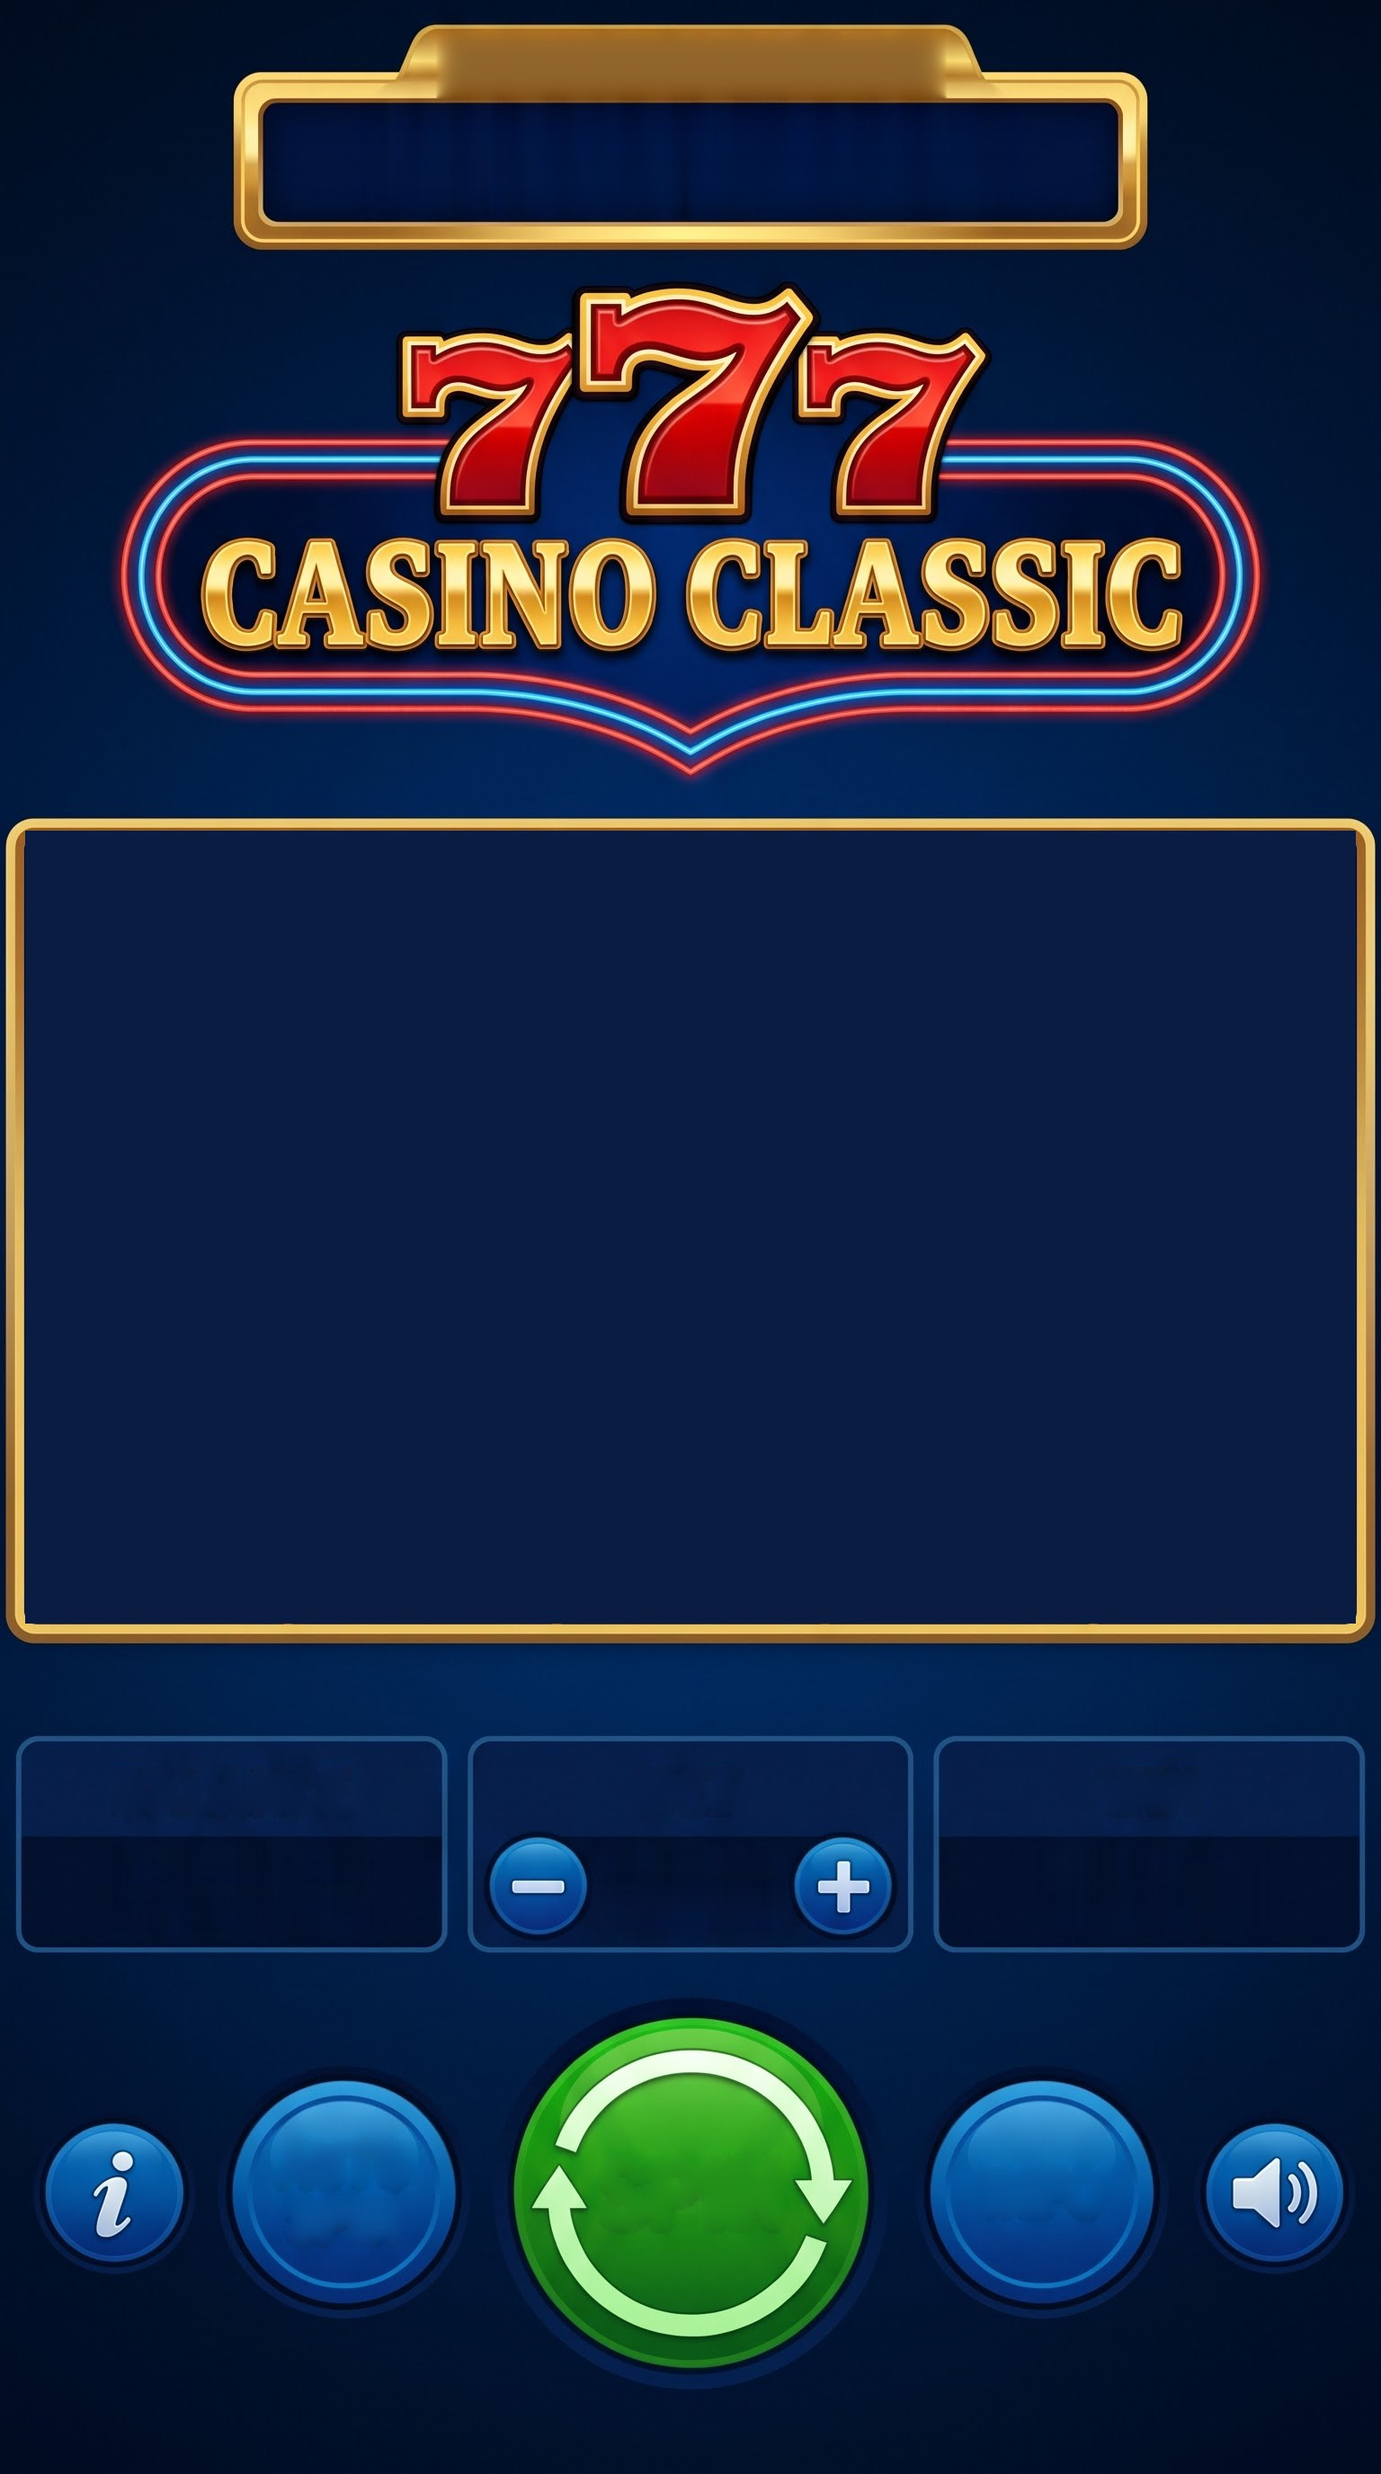
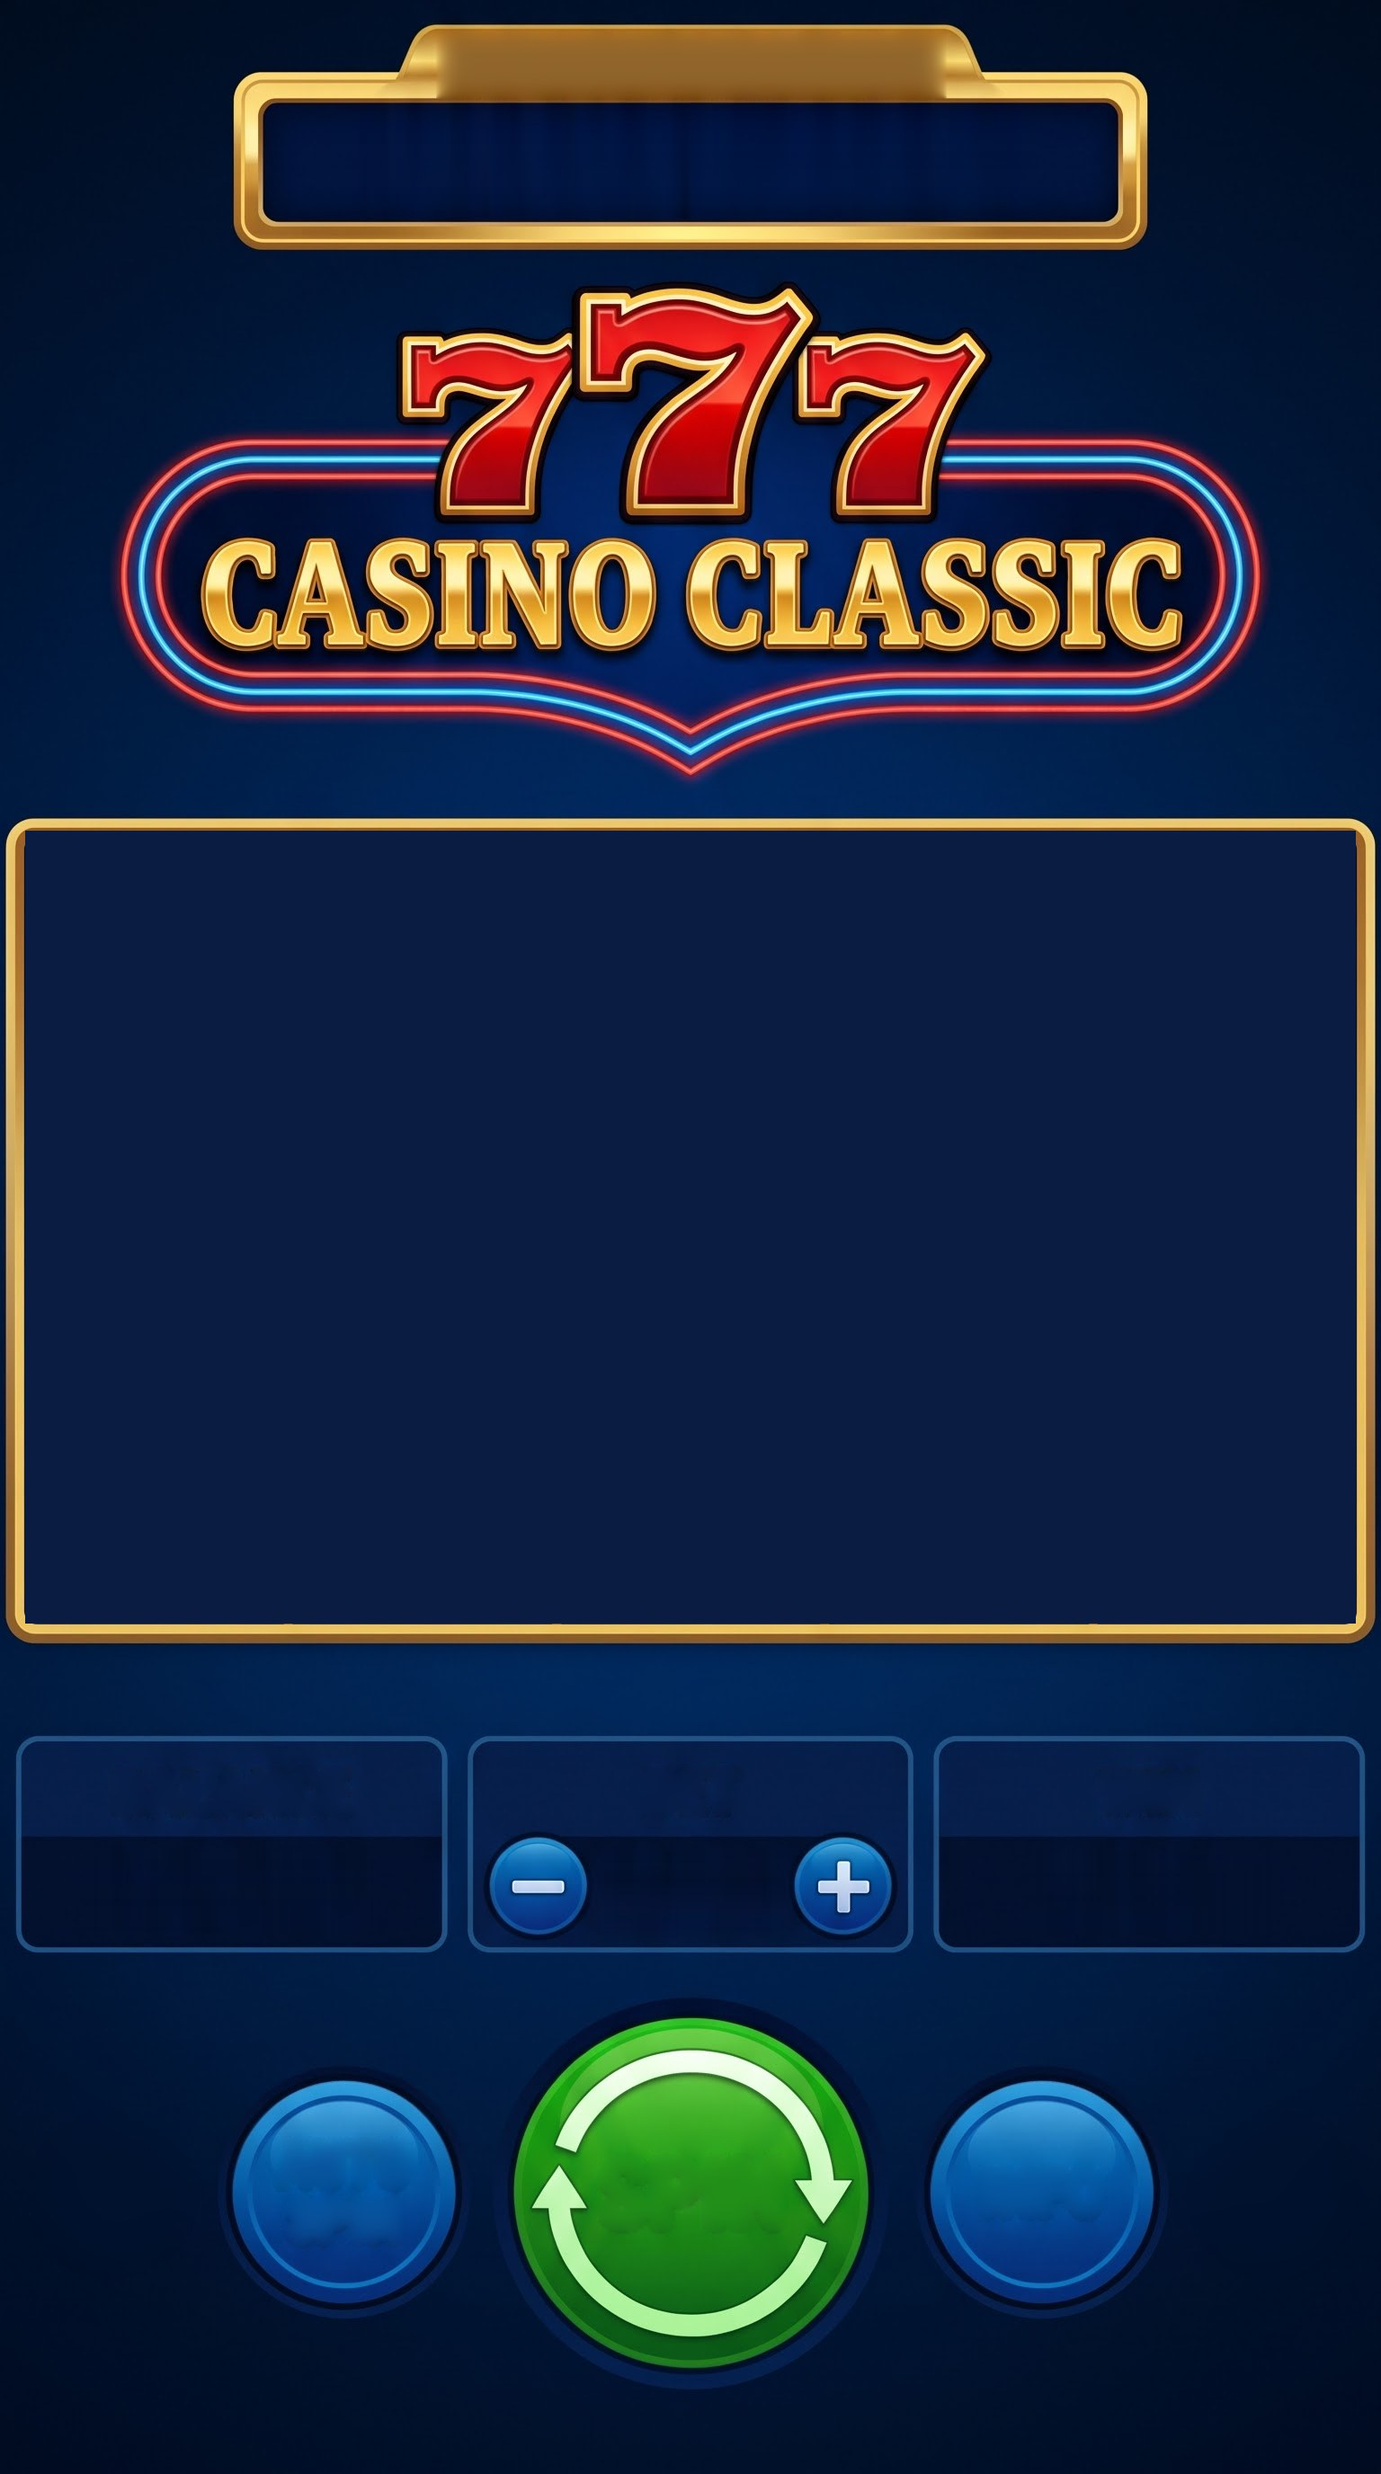
Home button top-left and sound on/off toggle top-right in every game
- Engine SoundButton (Pixi, same look as HomeButton) toggles a global,
  persisted soundSettings.muted (speaker / crossed speaker icon); placed
  via config.soundButton. No game audio exists yet; future audio code
  must respect soundSettings.
- Dragon: home over the old hamburger (top-left), sound over the baked
  speaker (top-right); the menu button is removed (trophy opens the
  paytable).
- Classic: sound at top-right, "i" moved under it; the mockup's bottom
  "i" and speaker are inpainted out so the bottom row is AUTO / SPIN /
  TURBO.

Claude-Session: https://claude.ai/code/session_019R4DonhDGP4cLcYWmf4oad

Changed region(s): [[0.875, 0.8438, 0.9688, 0.9375], [0.0312, 0.8438, 0.1562, 0.9375]]

diff --git a/src/engine/ui/SoundButton.ts b/src/engine/ui/SoundButton.ts
@@ -1,0 +1,49 @@
+import { Container, Graphics } from 'pixi.js';
+import { soundSettings } from '../audio/soundSettings';
+
+const GOLD = 0xFFD27A;
+const BG = 0x1B1024;
+
+/** Round sound on/off toggle (Pixi Graphics, same look as HomeButton). */
+export class SoundButton {
+  readonly container = new Container();
+  private icon = new Graphics();
+
+  constructor(x: number, y: number, private radius = 21) {
+    const c = this.container;
+    c.position.set(x, y);
+    c.eventMode = 'static';
+    c.cursor = 'pointer';
+
+    const bg = new Graphics();
+    bg.lineStyle(2, GOLD, 0.9);
+    bg.beginFill(BG, 0.95);
+    bg.drawCircle(0, 0, radius);
+    bg.endFill();
+    c.addChild(bg, this.icon);
+
+    c.on('pointertap', () => soundSettings.toggle());
+    soundSettings.onChange(() => this.draw());
+    this.draw();
+  }
+
+  private draw(): void {
+    const g = this.icon;
+    const s = this.radius / 21;
+    g.clear();
+    // speaker body
+    g.beginFill(GOLD, 1);
+    g.drawPolygon([-9 * s, -4 * s, -4 * s, -4 * s, 2 * s, -9 * s, 2 * s, 9 * s, -4 * s, 4 * s, -9 * s, 4 * s]);
+    g.endFill();
+    if (soundSettings.muted) {
+      g.lineStyle(2.4 * s, GOLD, 1);
+      g.moveTo(5 * s, -5 * s).lineTo(12 * s, 5 * s);
+      g.moveTo(12 * s, -5 * s).lineTo(5 * s, 5 * s);
+    } else {
+      g.lineStyle(2.2 * s, GOLD, 1);
+      g.arc(1 * s, 0, 6 * s, -Math.PI / 4, Math.PI / 4);
+      g.moveTo(1 * s + 10.5 * s * Math.cos(-Math.PI / 3.2), 10.5 * s * Math.sin(-Math.PI / 3.2));
+      g.arc(1 * s, 0, 10.5 * s, -Math.PI / 3.2, Math.PI / 3.2);
+    }
+  }
+}

diff --git a/src/engine/core/SlotGame.ts b/src/engine/core/SlotGame.ts
@@ -11,6 +11,7 @@ import { WinCelebration } from '../ui/WinCelebration';
 import { HtmlPaytable } from '../ui/HtmlPaytable';
 import { t } from '../i18n/I18n';
 import { HomeButton } from '../ui/HomeButton';
+import { SoundButton } from '../ui/SoundButton';
 import { formatMoney } from '../utils/Money';
 import type { SpinPipeline, SpinContext } from '../pipeline/SpinPipeline';
 import { buildSpinPipeline } from '../pipeline/buildSpinPipeline';
@@ -72,7 +73,7 @@ export class SlotGame {
         this.view.setQuickSpin?.(this.quickSpin);
       },
     });
-    this.homeButton = new HomeButton(cfg.homeButton.x, cfg.homeButton.y, goToLobby);
+    this.homeButton = new HomeButton(cfg.homeButton.x, cfg.homeButton.y, goToLobby, cfg.homeButton.r);
 
     const { view, reelController, winCelebration } = this;
     this.pipeline = buildSpinPipeline({
@@ -111,7 +112,12 @@ export class SlotGame {
     view.mountBelowReels(stage);
     stage.addChild(this.reelController.container);
     view.mountAboveReels(stage);
-    stage.addChild(this.homeButton.container, this.winCelebration.container);
+    stage.addChild(this.homeButton.container);
+    if (cfg.soundButton) {
+      const { x, y, r } = cfg.soundButton;
+      stage.addChild(new SoundButton(x, y, r).container);
+    }
+    stage.addChild(this.winCelebration.container);
 
     this.app.ticker.add((dt) => {
       this.reelController.update(dt);

diff --git a/src/engine/audio/soundSettings.ts b/src/engine/audio/soundSettings.ts
@@ -1,0 +1,48 @@
+const STORAGE_KEY = 'vslot.soundMuted';
+
+type Listener = (muted: boolean) => void;
+
+/**
+ * Global sound on/off switch shared by every game, persisted in localStorage.
+ * Audio code must check `muted` / subscribe with `onChange` before playing.
+ */
+class SoundSettings {
+  private _muted = read();
+  private listeners = new Set<Listener>();
+
+  get muted(): boolean {
+    return this._muted;
+  }
+
+  set muted(value: boolean) {
+    if (value === this._muted) return;
+    this._muted = value;
+    try {
+      localStorage.setItem(STORAGE_KEY, value ? '1' : '0');
+    } catch {
+      /* storage may be unavailable (private mode) — keep the in-memory value */
+    }
+    this.listeners.forEach(cb => cb(value));
+  }
+
+  toggle(): boolean {
+    this.muted = !this._muted;
+    return this._muted;
+  }
+
+  /** Returns an unsubscribe function. */
+  onChange(cb: Listener): () => void {
+    this.listeners.add(cb);
+    return () => this.listeners.delete(cb);
+  }
+}
+
+function read(): boolean {
+  try {
+    return localStorage.getItem(STORAGE_KEY) === '1';
+  } catch {
+    return false;
+  }
+}
+
+export const soundSettings = new SoundSettings();

diff --git a/src/games/dragon/views/DragonView.ts b/src/games/dragon/views/DragonView.ts
@@ -17,7 +17,6 @@ export class DragonView implements GameView {
   private readonly auto = make('auto');
   private readonly turbo = make('turbo');
   private readonly trophy = make('trophy');
-  private readonly menu = make('menu', 22);
   private readonly fullscreenZone = new Container();
 
   constructor(actions: GameActions) {
@@ -29,7 +28,6 @@ export class DragonView implements GameView {
     this.trophy.onClick(actions.openPaytable);
     labelButton(this.auto, 'autoLabel', 'button.auto', DRAGON_LABEL_STYLE);
     labelButton(this.turbo, 'turboLabel', 'button.turbo', DRAGON_LABEL_STYLE);
-    this.menu.onClick(actions.togglePaytable);
 
     // The fullscreen icon is baked into the background; this is its hit zone.
     const z = this.fullscreenZone;
@@ -41,7 +39,7 @@ export class DragonView implements GameView {
   }
 
   private get buttons(): SpriteButton[] {
-    return [this.spinButton, this.minus, this.plus, this.coins, this.auto, this.turbo, this.trophy, this.menu];
+    return [this.spinButton, this.minus, this.plus, this.coins, this.auto, this.turbo, this.trophy];
   }
 
   mountBelowReels(stage: Container): void {

diff --git a/src/games/classic/config.ts b/src/games/classic/config.ts
@@ -16,8 +16,8 @@ export const JACKPOT = raw.skin.jackpot;
 
 export type UiAnchorName = keyof typeof raw.skin.ui;
 
-/** Skin UI anchor converted from source-mockup to game coordinates (r = hit radius, w = max label width). */
-export function uiAnchor(name: UiAnchorName): { x: number; y: number; r: number; w: number } {
-  const a: { x: number; y: number; r?: number; w?: number } = raw.skin.ui[name];
-  return { x: a.x * SKIN_SCALE, y: a.y * SKIN_SCALE, r: (a.r ?? 0) * SKIN_SCALE, w: (a.w ?? 0) * SKIN_SCALE };
+/** Skin UI anchor converted from source-mockup to game coordinates (r = hit radius, w = max label width, s = extra sprite scale when moved off its baked spot). */
+export function uiAnchor(name: UiAnchorName): { x: number; y: number; r: number; w: number; s: number } {
+  const a: { x: number; y: number; r?: number; w?: number; s?: number } = raw.skin.ui[name];
+  return { x: a.x * SKIN_SCALE, y: a.y * SKIN_SCALE, r: (a.r ?? 0) * SKIN_SCALE, w: (a.w ?? 0) * SKIN_SCALE, s: a.s ?? 1 };
 }

diff --git a/src/engine/config/SlotConfig.ts b/src/engine/config/SlotConfig.ts
@@ -32,8 +32,10 @@ export interface RawSlotConfig {
   /** Total-bet options in minor units; each must divide by paylines.length. */
   betOptions: number[];
   defaultBetIndex: number;
-  /** Home (back to lobby) button centre in game pixels. */
-  homeButton: { x: number; y: number };
+  /** Home (back to lobby) button centre in game pixels — top-left corner by convention. */
+  homeButton: { x: number; y: number; r?: number };
+  /** Sound on/off toggle centre in game pixels — top-right corner by convention. */
+  soundButton?: { x: number; y: number; r?: number };
   spin: {
     reelStartInterval: number;
     bounceUp: { amount: number; duration: number };

diff --git a/src/games/dragon/assets.ts b/src/games/dragon/assets.ts
@@ -2,7 +2,7 @@ import { Assets, Texture } from 'pixi.js';
 import { assetUrl } from '@/engine';
 import { config } from './config';
 
-export const UI_SPRITES = ['menu', 'coins', 'auto', 'spin', 'turbo', 'trophy', 'minus', 'plus'] as const;
+export const UI_SPRITES = ['coins', 'auto', 'spin', 'turbo', 'trophy', 'minus', 'plus'] as const;
 export type UiSpriteName = typeof UI_SPRITES[number];
 
 const textures = new Map<string, Texture>();

diff --git a/src/engine/index.ts b/src/engine/index.ts
@@ -15,4 +15,5 @@ export { fitText } from './ui/fitText';
 export { SpriteSpinButton, type SpinButtonStyle } from './ui/SpriteSpinButton';
 export { i18n, t, detectLanguage, ENGINE_STRINGS, FALLBACK_LANG } from './i18n/I18n';
 export { CONTENT_CDN, cdnUrl } from './content/cdn';
+export { soundSettings } from './audio/soundSettings';
 export { formatMoney, assetUrl } from './utils/Money';

diff --git a/src/games/classic/views/ClassicView.ts b/src/games/classic/views/ClassicView.ts
@@ -65,7 +65,7 @@ function makeSpin(): SpriteSpinButton {
 
 function make(texture: UiSpriteName, anchor: UiAnchorName): SpriteButton {
   const a = uiAnchor(anchor);
-  const btn = new SpriteButton(uiTexture(texture), a.r, SKIN_SCALE);
+  const btn = new SpriteButton(uiTexture(texture), a.r, SKIN_SCALE * a.s);
   btn.setPosition(a.x, a.y);
   return btn;
 }

diff --git a/src/games/classic/tools/slice-skin.py b/src/games/classic/tools/slice-skin.py
@@ -52,6 +52,11 @@ LABEL_BOXES = [(485, 36, 1053, 110, 'box'), (122, 1964, 395, 2023, 'gold'), (712
 
 REEL_FILL = (10, 28, 66)
 
+# Baked buttons removed from the background after their sprites are cut:
+# "i" (moved to the top-right column) and the speaker (replaced by the engine
+# sound toggle at the top-right). (cx, cy, r) incl. drop shadow.
+REMOVED_BUTTONS = [(126, 2440, 96), (1416, 2442, 96)]
+
 
 def erase_box(arr, box, margin=3):
     """Fill a box from its surroundings (Coons patch of the median edge strips), then soften."""
@@ -79,6 +84,10 @@ def text_mask(patch, mode, grow=GLYPH_GROW):
     R, G, B = (patch[..., i].astype(int) for i in range(3))
     if mode == 'box':
         return np.ones(R.shape, bool)
+    if mode == 'disc':
+        h, w = R.shape
+        yy, xx = np.mgrid[:h, :w]
+        return (xx - w / 2 + 0.5) ** 2 / (w / 2) ** 2 + (yy - h / 2 + 0.5) ** 2 / (h / 2) ** 2 <= 1
     if mode == 'gold':
         m = (R > 140) & (G > 95) & (B < 130) & (R - B > 55)
     else:  # white text
@@ -128,6 +137,9 @@ def main():
         ImageDraw.Draw(mask).ellipse((pad, pad, pad + 2 * r, pad + 2 * r), fill=255)
         crop.putalpha(mask.filter(ImageFilter.GaussianBlur(1.5)))
         crop.save(OUT / 'ui' / f'{name}.png', optimize=True)
+
+    for cx, cy, r in REMOVED_BUTTONS:
+        inpaint(arr, (cx - r, cy - r, cx + r, cy + r), 'disc', iterations=1500)
 
     arr[YS[0]:YS[-1], XS[0]:XS[-1]] = REEL_FILL
     Image.fromarray(arr).save(OUT / 'bg.jpg', quality=88, optimize=True, progressive=True)

diff --git a/src/games/dragon/tools/slice-skin.py b/src/games/dragon/tools/slice-skin.py
@@ -34,7 +34,6 @@ INSET = 3  # px trimmed from each side to drop the golden separators
 
 # name -> (cx, cy, rx, ry) ellipse in source pixels
 BUTTONS = {
-    'menu': (58, 58, 40, 40),
     'coins': (92, 1465, 62, 62),
     'auto': (243, 1465, 62, 62),
     'spin': (487, 1480, 172, 150),

diff --git a/CLAUDE.md b/CLAUDE.md
@@ -53,6 +53,7 @@ src/
 │   ├── i18n/I18n.ts         i18n / t(): CDN translations, lang → en → fallback, detectLanguage()
 │   ├── ui/                  WinCelebration, HtmlPaytable + paytableTemplate ({{…}} placeholders), HomeButton,
 │   │                        SpriteButton / SpriteSpinButton (round buttons cut from a skin mockup)
+│   ├── audio/soundSettings.ts  Global sound on/off (localStorage); future audio must respect `muted` / `onChange`
 │   └── utils/               Money (formatMoney, assetUrl), Random (blur symbol picker)
 ├── games/
 │   ├── registry.ts          Lobby list (scaffold inserts at @new-game markers)
@@ -87,7 +88,7 @@ const game: GameDefinition = {
 };
 ```
 
-`GameView` supplies `spinButton` (SpinControl with `hitTest`), `hud` (Hud), `mountBelowReels` / `mountAboveReels`, `setBetControls`, optional `setAutoplay` / `setQuickSpin` / `update`. Views call back through `GameActions` (`changeBet`, `openPaytable`, `togglePaytable`, `toggleAutoplay`, `toggleQuickSpin`). The engine adds reels, celebration, the HTML paytable overlay and the home button itself.
+`GameView` supplies `spinButton` (SpinControl with `hitTest`), `hud` (Hud), `mountBelowReels` / `mountAboveReels`, `setBetControls`, optional `setAutoplay` / `setQuickSpin` / `update`. Views call back through `GameActions` (`changeBet`, `openPaytable`, `togglePaytable`, `toggleAutoplay`, `toggleQuickSpin`). The engine adds reels, celebration, the HTML paytable overlay, the home button (top-left) and the sound toggle (top-right) itself — games only set their positions in config and must keep those corners free.
 
 ## Recipes
 
@@ -122,7 +123,8 @@ Stage
 │   ├── optional reelStyle.separators grid
 │   └── winLayer (unmasked; winning symbols promoted here)
 ├── GameView.mountAboveReels   (buttons, HUD)
-├── HomeButton                 (config.homeButton)
+├── HomeButton                 (config.homeButton — top-left corner in every game)
+├── SoundButton                (config.soundButton — top-right corner; toggles soundSettings.muted)
 ├── WinCelebration
 └── (DOM) HtmlPaytable         iframe overlay placed over the canvas rect, hidden by default
 ```
